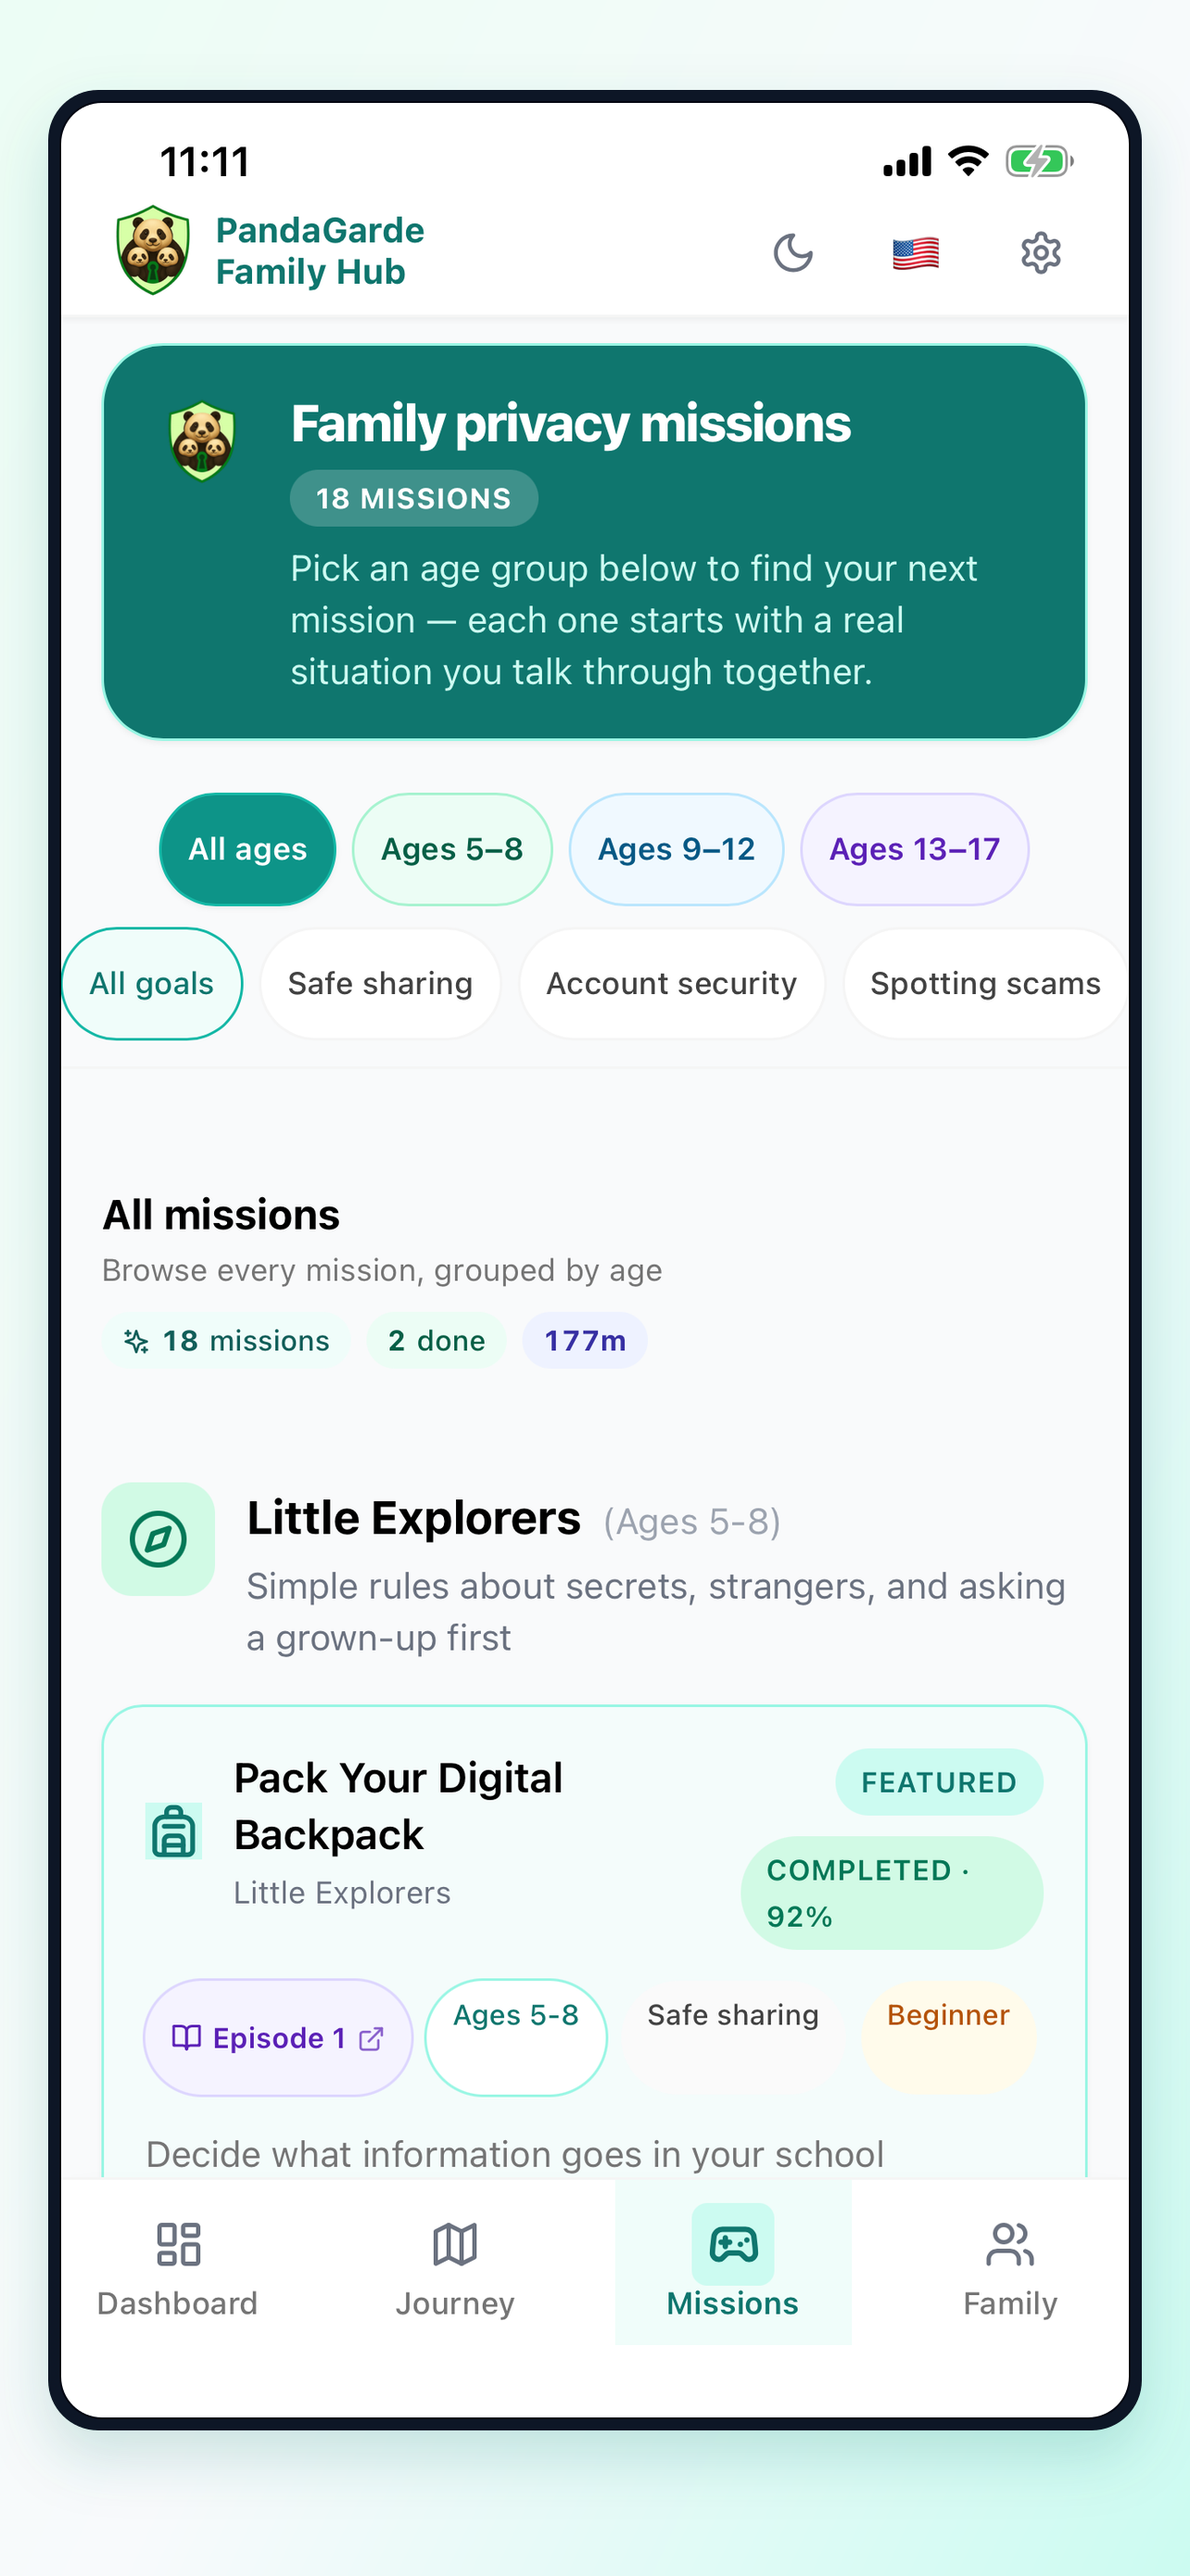
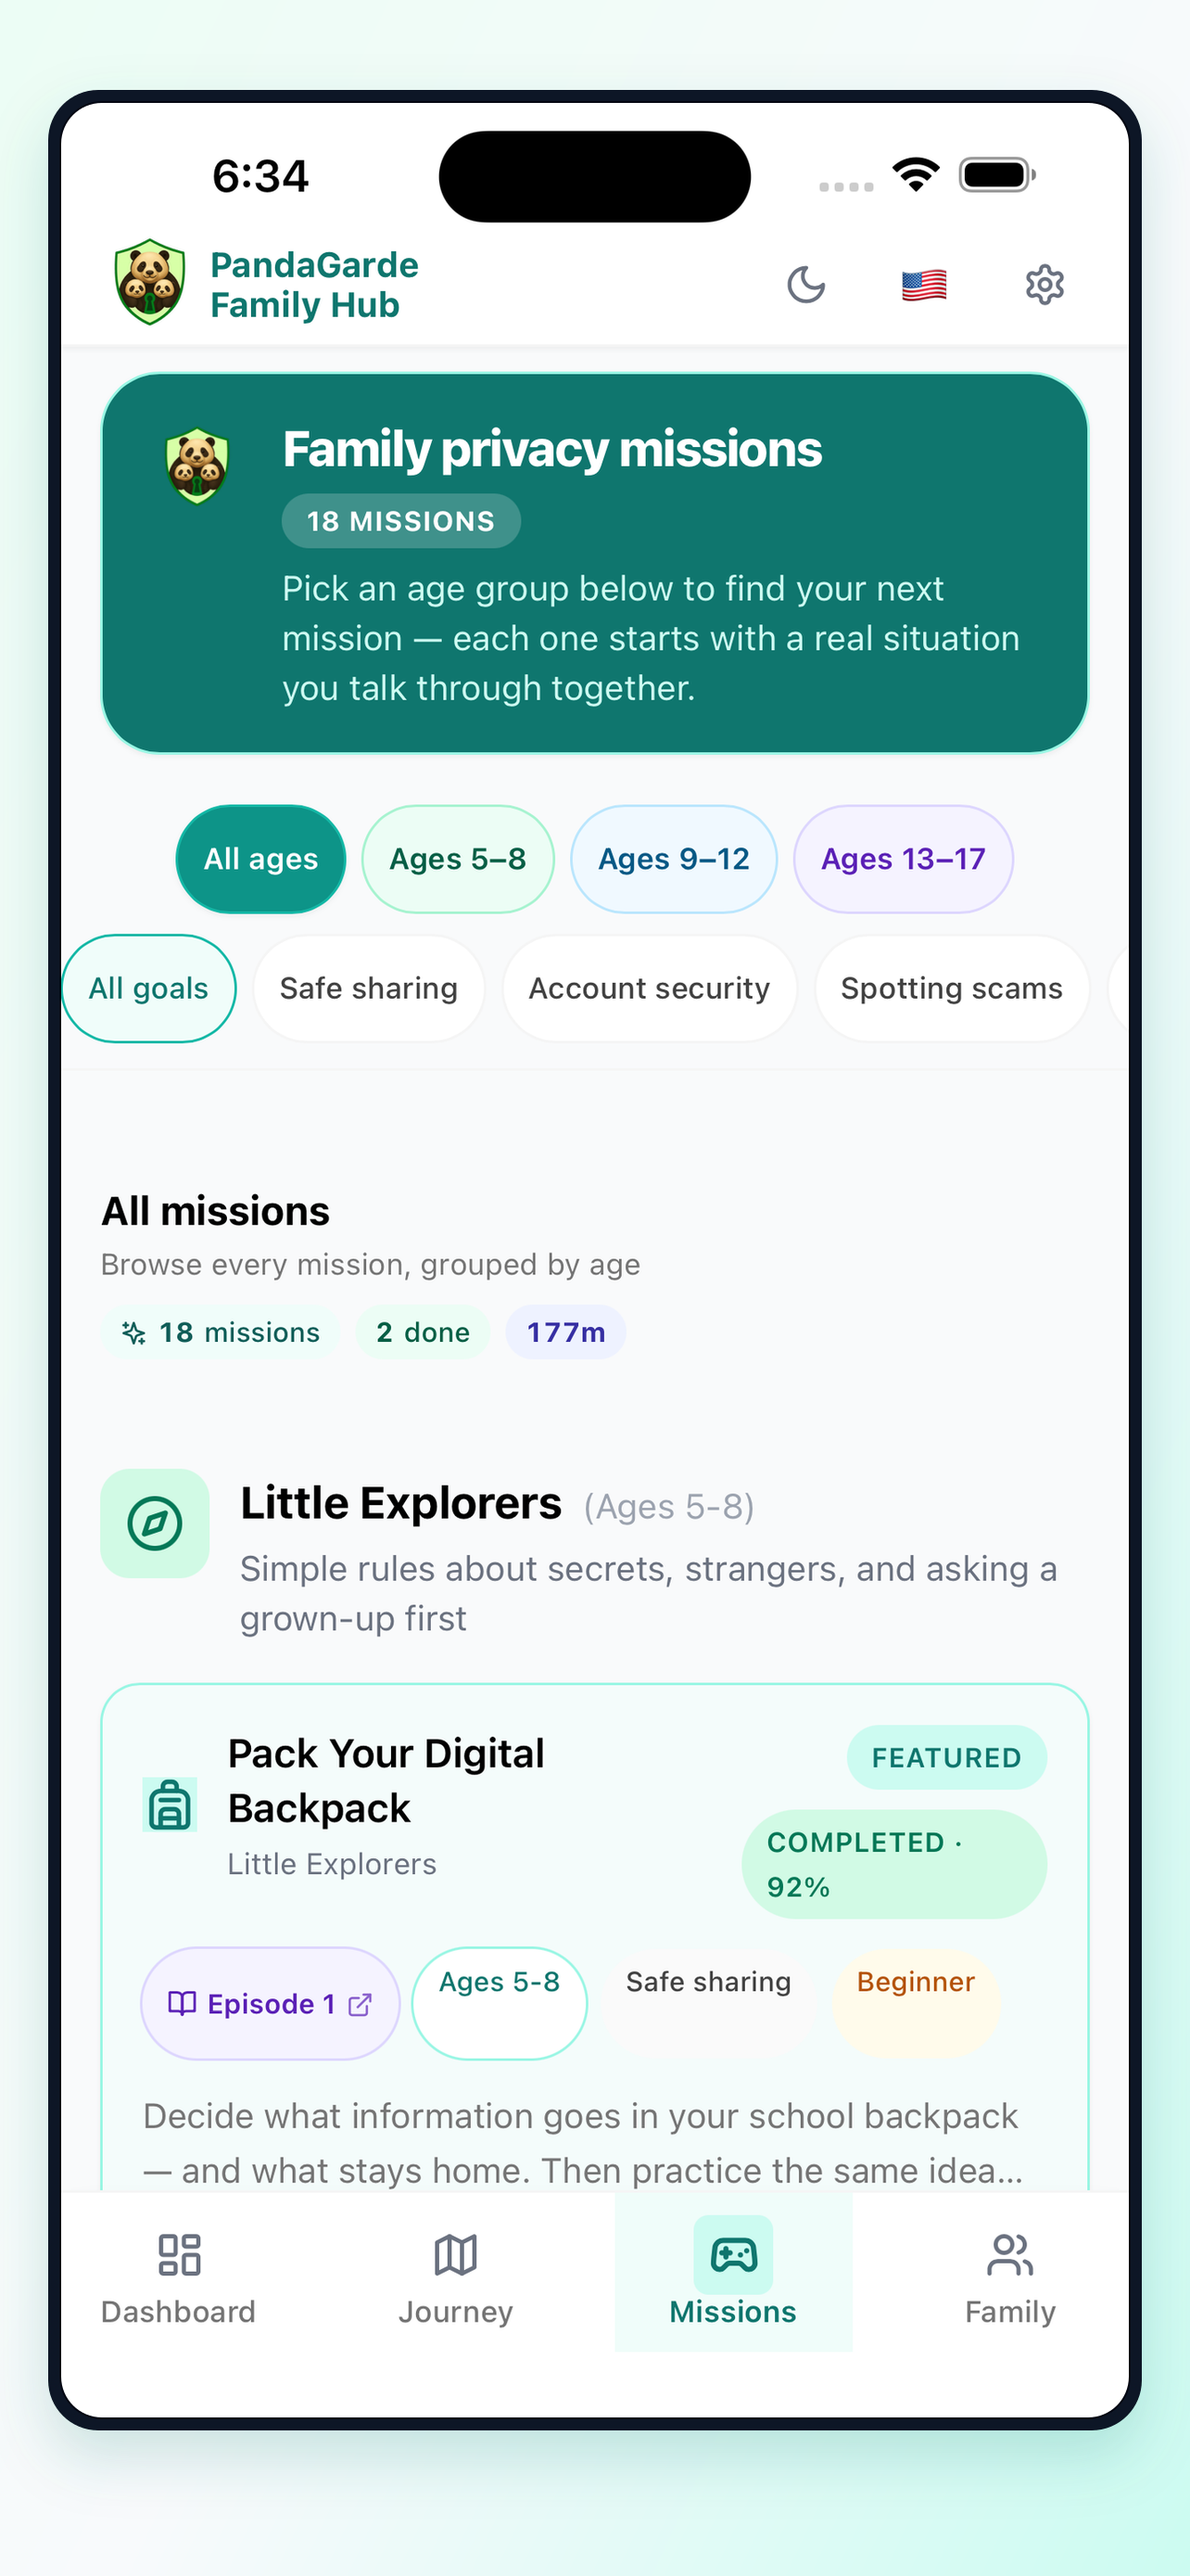
feat: enhance iOS screenshot automation and versioning updates
- Added new npm scripts for iOS app store preparation and archiving to streamline the deployment process.
- Introduced a store capture HTML plugin to conditionally inject capture flags into the index HTML for improved screenshot automation.
- Updated the iOS project version to 6 and incremented the version code to 5 for consistency with recent changes.
- Enhanced the screenshot capture script to support re-framing of existing raw captures, improving efficiency in the screenshot workflow.
- Adjusted wait times for various screens to ensure reliable captures during automation.

These changes aim to improve the overall efficiency and reliability of the iOS screenshot automation process and ensure proper versioning for deployment.

diff --git a/vite.familyhub.config.ts b/vite.familyhub.config.ts
@@ -31,6 +31,20 @@ function pruneMobileOnlyAssets(outDir: string) {
   }
 }
 
+function storeCaptureHtmlPlugin() {
+  const enabled = process.env.VITE_STORE_SCREENSHOTS === 'true';
+  return {
+    name: 'store-capture-html',
+    transformIndexHtml(html: string) {
+      if (!enabled) {
+        return html;
+      }
+      const bootFlag = '<script>window.__PG_STORE_CAPTURE__=true;</script>';
+      return html.replace('<head>', `<head>\n    ${bootFlag}`);
+    },
+  };
+}
+
 /** Capacitor and most hosts expect index.html at the web root */
 const familyhubIndexHtmlPlugin = () => ({
   name: 'familyhub-index-html',
@@ -63,7 +77,7 @@ const familyhubIndexHtmlPlugin = () => ({
 export default mergeConfig(
   baseConfig,
   defineConfig({
-    plugins: [familyhubIndexHtmlPlugin()],
+    plugins: [storeCaptureHtmlPlugin(), familyhubIndexHtmlPlugin()],
     define: {
       'import.meta.env.VITE_HUB_STANDALONE': JSON.stringify('true'),
       'import.meta.env.VITE_STORE_SCREENSHOTS': JSON.stringify(process.env.VITE_STORE_SCREENSHOTS ?? 'false'),

diff --git a/store-assets/README.md b/store-assets/README.md
@@ -22,7 +22,13 @@ npm run assets:screenshots:ios
 
 Rebuilds the Family Hub web bundle and Simulator app before every capture. Use `npm run assets:screenshots:ios:fast` only when re-shooting with an already-fresh build (`--skip-build`).
 
-Uses simulators **SC-Store-iPhone-6.5** and **iPad Pro 13-inch (M5)**. A local HTTP server drives in-app navigation (no `familyhub://` dialogs). Output PNGs are composited **inside a device bezel** on a soft teal background at exact App Store dimensions. Raw simulator captures are kept in `_raw/`.
+Uses simulators **SC-Store-iPhone-6.5** and **iPad Pro 13-inch (M5)**. Output PNGs are composited **inside a device bezel** on a soft teal gradient at exact App Store dimensions. Raw simulator captures are kept in `_raw/`.
+
+Re-frame existing raw captures without re-running the simulator:
+
+```bash
+npm run assets:screenshots:ios:frame
+```
 
 **Alternative — Playwright preview (browser):**
 
